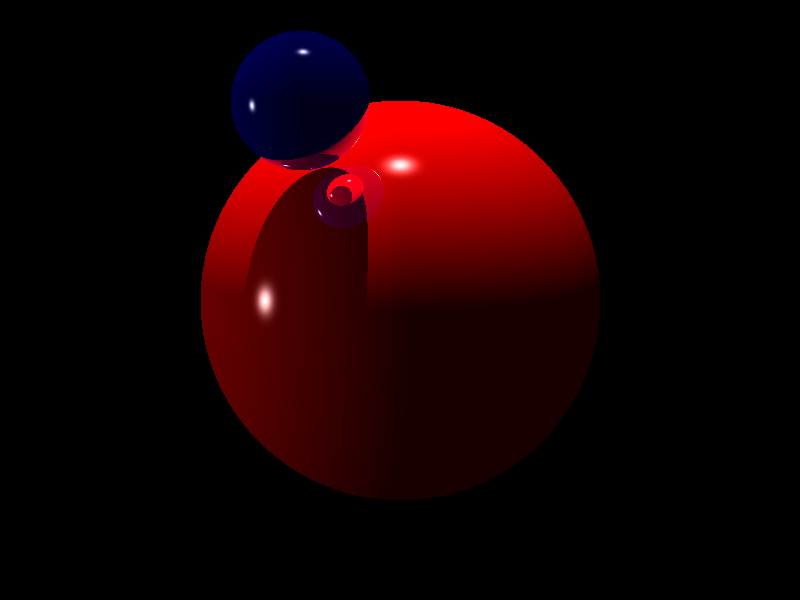
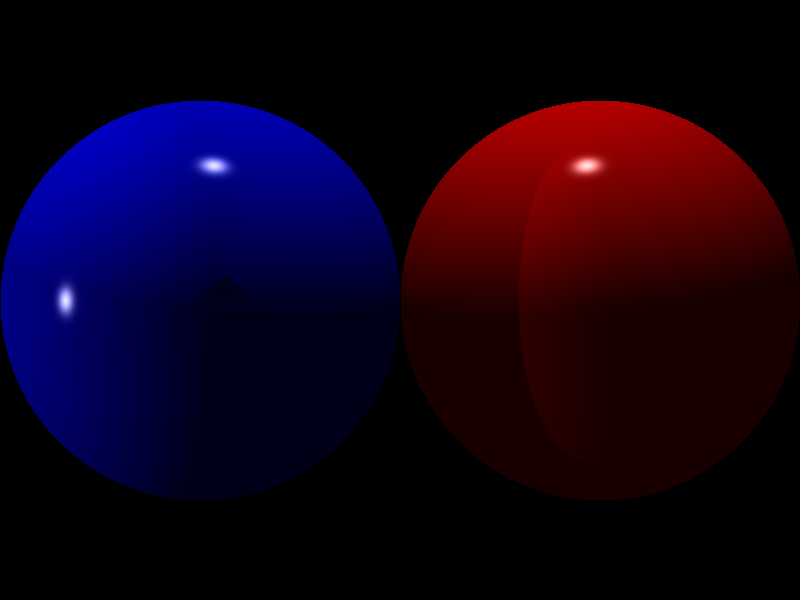
modif triangle, do not work yet...

diff --git a/src/main.cpp b/src/main.cpp
@@ -9,6 +9,7 @@
 #include "Sphere.hpp"
 #include "Material.hpp"
 #include "Raytracing.hpp"
+#include "Triangle.hpp"
 #include "Ray.hpp"
 
 using namespace Eigen;
@@ -20,13 +21,13 @@ int main()
   // Sphere definition
   // Sphere 1
   Quaterniond s1_rot(1,0,0,0);
-  Vector3d s1_pos(5,0,0);
-  Vector3d s1_center(5,0,0);
+  Vector3d s1_pos(5,0,2);
+  Vector3d s1_center(s1_pos);
   double s1_radius(2);
 
   Vector3d s1_ka(0.2,0,0);
-  Vector3d s1_kd(1,0,0);
-  Vector3d s1_ks(1,1,1);
+  Vector3d s1_kd(0.6,0,0);
+  Vector3d s1_ks(0.8,0.9,0.9);
   //Vector3d s1_ks(0,0,0);
   double s1_n(200);
   Material s1_mat(s1_ka, s1_kd, s1_ks, s1_n);
@@ -35,18 +36,31 @@ int main()
 
   // Sphere 2
   Quaterniond s2_rot(1,0,0,0);
-  Vector3d s2_pos(3,2,-1);
+  Vector3d s2_pos(5,0,-2);
   Vector3d s2_center(s2_pos);
-  double s2_radius(0.7);
+  double s2_radius(2);
 
   Vector3d s2_ka(0,0,0.2);
-  Vector3d s2_kd(0,0,0.2);
-  Vector3d s2_ks(1,1,1);
+  Vector3d s2_kd(0,0,0.6);
+  Vector3d s2_ks(0.9,0.9,0.9);
   //Vector3d s2_ks(0,0,0);
   double s2_n(200);
   Material s2_mat(s2_ka, s2_kd, s2_ks, s2_n);
 
   Sphere s2(s2_pos, s2_rot, s2_center, s2_radius, s2_mat);
+
+  // Triangle definition
+  Quaterniond t1_rot(1,0,0,0);
+  Vector3d t1_pos(5,0,-2);
+  Vector3d t1_v1(8,0,-2), t1_v2(8,0,2), t1_v3(8,2,0);
+
+  Vector3d t1_ka(0,0.2,0);
+  Vector3d t1_kd(0,0.7,0);
+  Vector3d t1_ks(0.9,0.9,0.9);
+  double t1_n(200);
+  Material t1_mat(t1_ka, t1_kd, t1_ks, t1_n);
+
+  Triangle t1(t1_pos, t1_rot, t1_v1, t1_v2, t1_v3, t1_mat);
 
   // Light definition
   Quaterniond l1_rot(1,0,0,0);
@@ -70,6 +84,7 @@ int main()
 
   scene.AddPhysicalObject(&s1);
   scene.AddPhysicalObject(&s2);
+  scene.AddPhysicalObject(&t1);
   scene.AddLight(&l1);
   scene.AddLight(&l2);
 
@@ -87,7 +102,8 @@ int main()
   // Ray ray(origin, direction);
   // Vector3d v = raytracing.ThrowRay(&ray, 2);
   // cout << endl << v << endl;
-  raytracing.ThrowRays(3);
+  //#pragma omp parallel
+  raytracing.ThrowRays(1);
   raytracing.Save("ray_tracing.png");
 
   return 0;

diff --git a/include/Triangle.hpp b/include/Triangle.hpp
@@ -1,0 +1,35 @@
+#ifndef TRIANGLE_HPP
+#define TRIANGLE_HPP
+
+#include <Eigen/Dense>
+
+#include "PhysicalObject.hpp"
+#include "Ray.hpp"
+#include "Material.hpp"
+
+class Triangle: public PhysicalObject
+{
+public:
+  Triangle(
+    Eigen::Vector3d pos,
+    Eigen::Quaterniond rot,
+    Eigen::Vector3d v1,
+    Eigen::Vector3d v2,
+    Eigen::Vector3d v3,
+    Material mat = Material::Default()
+  ): PhysicalObject(pos, rot, mat), m_v1(v1), m_v2(v2), m_v3(v3), m_iu(0), m_ir(0), m_iv(0) {}
+
+  bool IsIntersected(Ray* ray);
+  Eigen::Vector3d Intersect(Ray* ray);
+  Eigen::Vector3d getNormal(Eigen::Vector3d point);
+
+private:
+  Eigen::Vector3d m_v1;
+  Eigen::Vector3d m_v2;
+  Eigen::Vector3d m_v3;
+
+  // Useful variables for computing intersection point
+  double m_iu, m_ir, m_iv;
+};
+
+#endif
